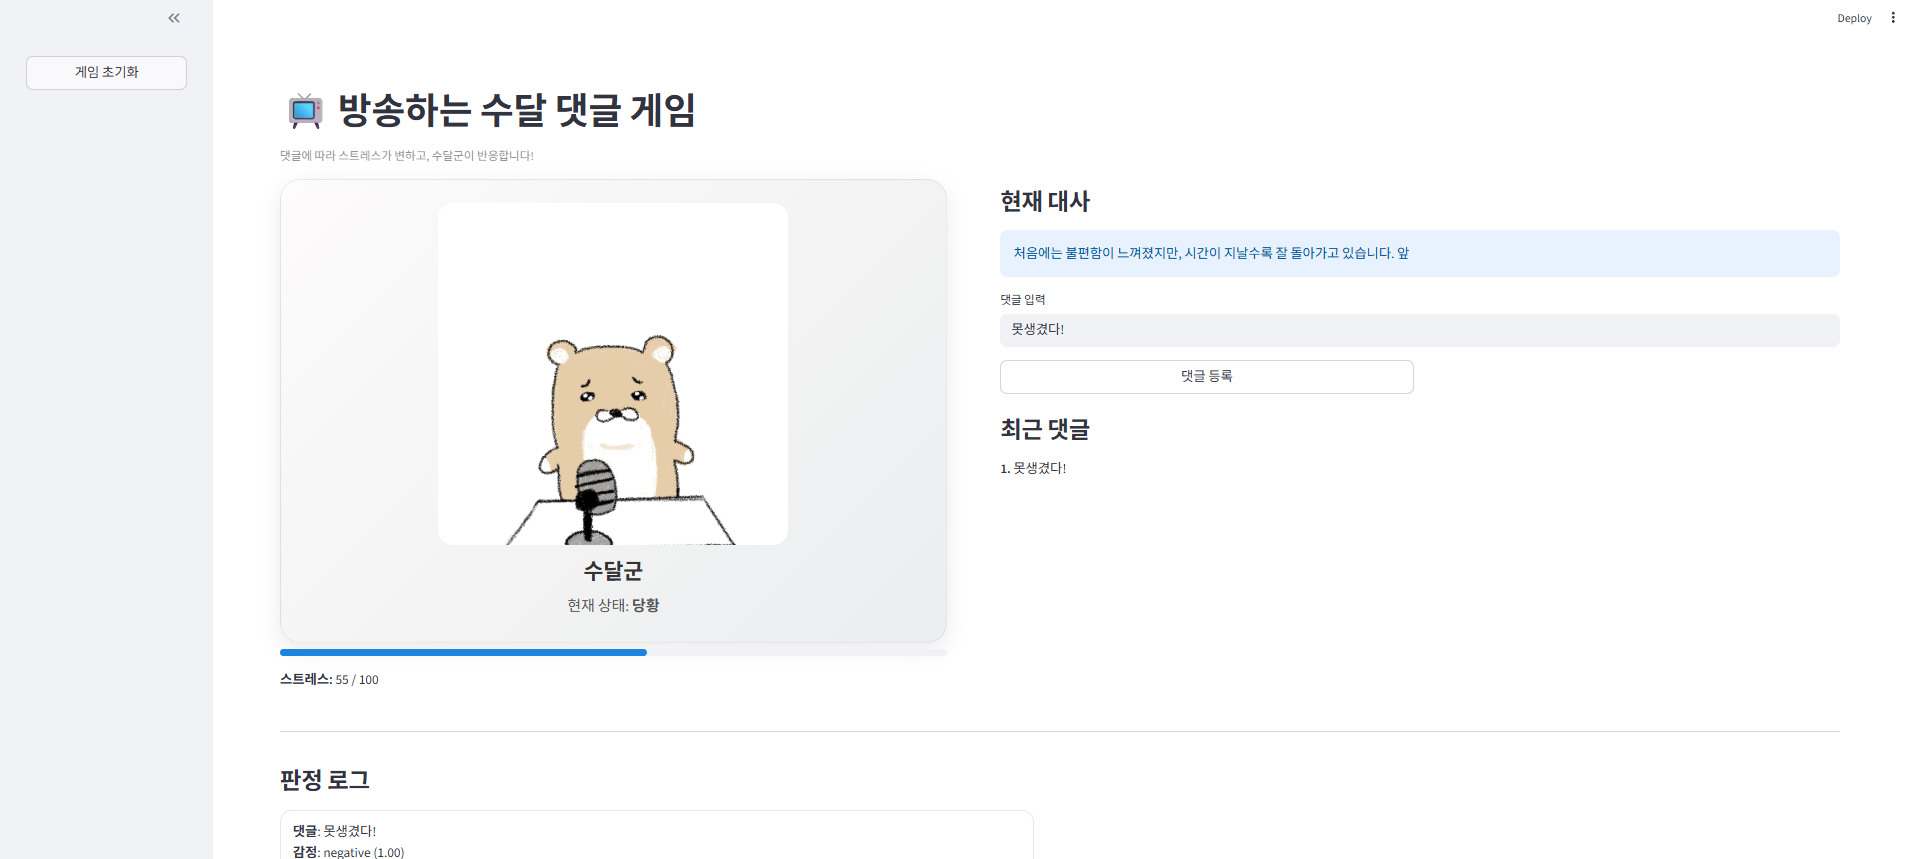
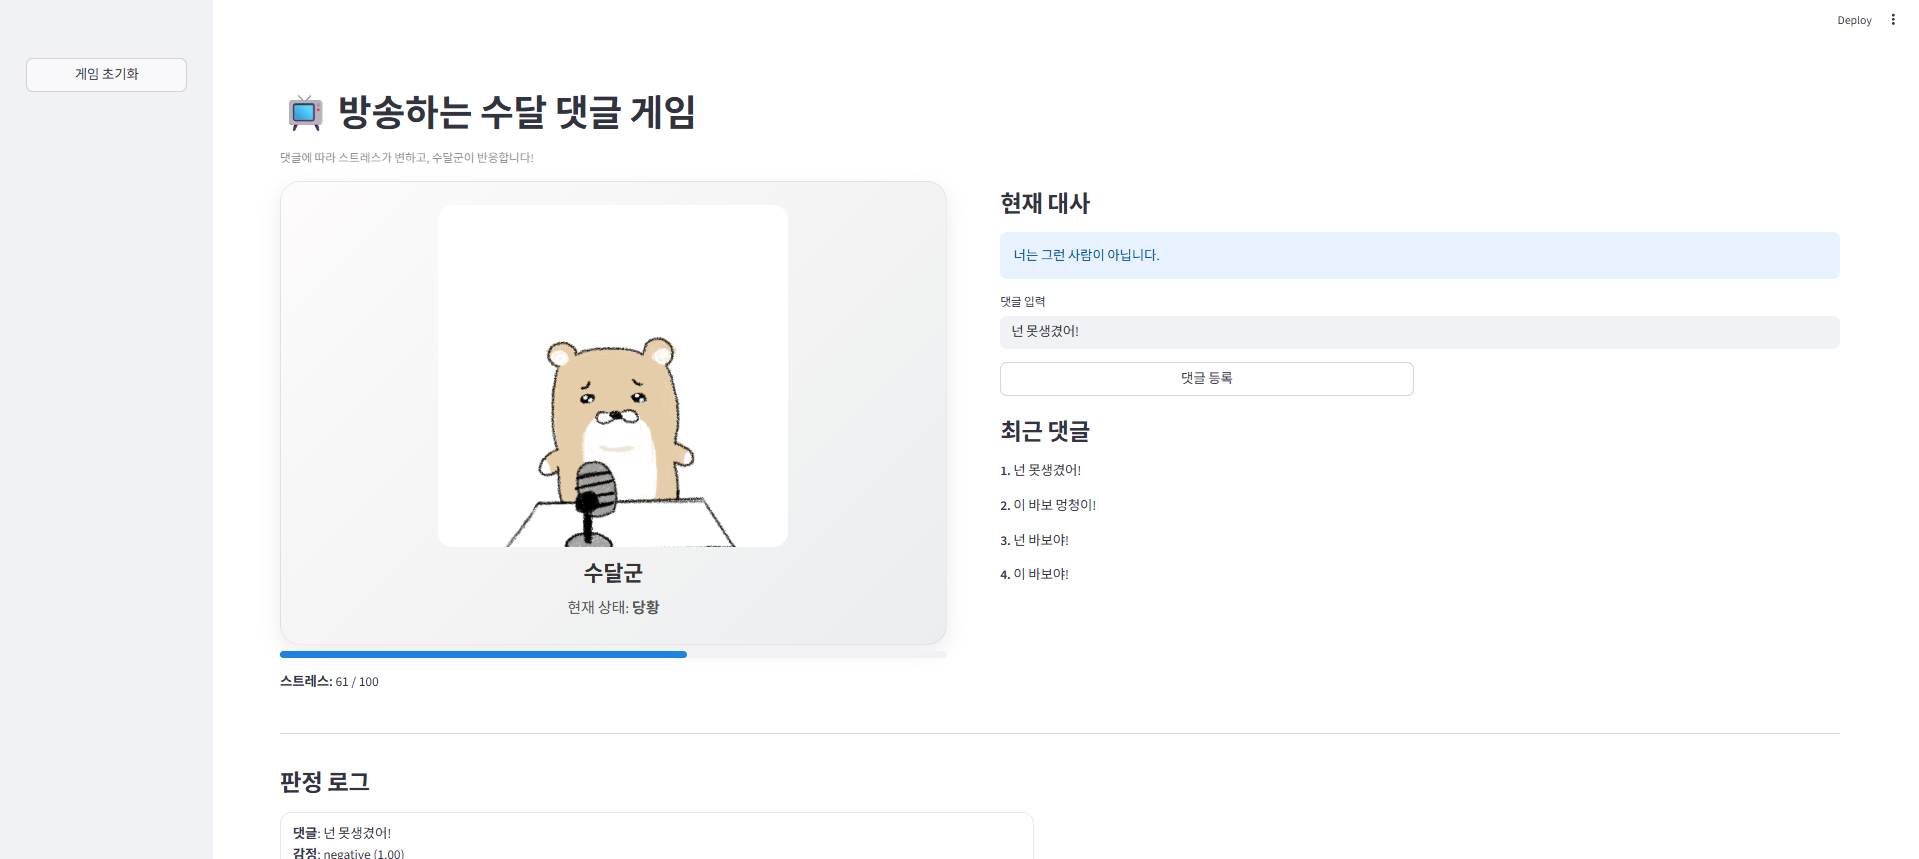
답변 글자수 수정, 리드미 이미지 수정

diff --git a/app.py b/app.py
@@ -223,7 +223,7 @@ def postprocess_reply(text: str, fallback_state: str) -> str:
     if not re.search(r"[가-힣]", text):
         return get_fallback_reply(fallback_state)
 
-    return text[:40]
+    return text
 
 
 def init_state():
